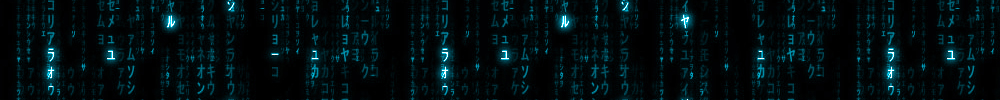
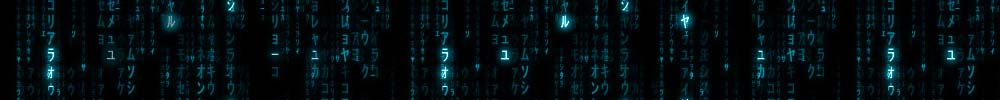
design page up to speed except responsive

diff --git a/app/assets/stylesheets/application.css.scss b/app/assets/stylesheets/application.css.scss
@@ -136,6 +136,8 @@ video, audio, iframe, table, form {
   position: fixed;
   width: 100%;
   z-index : 1;
+  border-bottom: 1.5px solid;
+  border-color: #04adcc;
 }
 
 .wrapper_blocker {
@@ -145,8 +147,14 @@ video, audio, iframe, table, form {
   height: 98px;
   width: 100%;
   z-index: 1;
-  border-bottom: 1.5px solid;
-  border-color: #04adcc;
+  border-bottom: solid 1px #04adcc;
+  transition: opacity .5s;
+  -moz-transition: opacity .5s;
+  -webkit-transition: opacity .5s;
+}
+
+.transparent {
+  opacity: 0;
 }
 
 
@@ -176,10 +184,11 @@ video, audio, iframe, table, form {
 
 #donpic {
   position: fixed;
-  top: 32px;
-  left: 38px;
+  top: 11px;
+  left: 40px;
   width: 120px;
   z-index: 2;
+  transition: all .5s;
 }
 
 #donpic_homepage {
@@ -236,7 +245,7 @@ video, audio, iframe, table, form {
   color: #7a7a7a;
   text-align: center;
   text-decoration: none;
-  margin: 0 0 0 30px;
+  margin: 0 0 0 16px;
 }
 
 #navbar nav a.selected {
@@ -245,7 +254,7 @@ video, audio, iframe, table, form {
 }
 
 #navbar {
-  margin: 25px 0 0 0;
+  margin: 25px 0 0 10px;
 }
 
 #navbar nav a:hover {
@@ -278,7 +287,14 @@ video, audio, iframe, table, form {
 }
 
 .links {
-  margin: 0 0 0 120px;
+  margin-left: 120px;
+  margin-top: 10px;
+  z-index: 9998;
+  transition: all .5s;
+}
+
+.uplink {
+  margin-top: -25px;
 }
 
 /*new nav tree */
@@ -536,11 +552,11 @@ footer {
     font: .90em avenir, helvetica, Arial, sans-serif;
   }
 
-  #program_navbar {
+  #white_navbar {
     width: 100%;
   }
 
-  #program_navbar nav a {
+  #white_navbar nav a {
     font: .90em avenir, helvetica, Arial, sans-serif;
   }
 
@@ -607,7 +623,7 @@ footer {
     height: 92px;
   }
 
-  #program_navbar nav a {
+  #white_navbar nav a {
     font: .85em avenir, helvetica, Arial, sans-serif;
   }
 
@@ -623,7 +639,7 @@ footer {
     margin: 50px auto;
   }
 
-  #navbar, #program_navbar {
+  #navbar, #white_navbar {
     font-size: 90%;
     width: 100%;
   }
@@ -633,7 +649,7 @@ footer {
     width: 10%;
   }
 
-  #program_navbar nav a {
+  #white_navbar nav a {
     display: inline-block;
     width: 10%;
   }
@@ -667,7 +683,7 @@ footer {
 
 
 @media only screen and (max-width: 800px) {
-  #navbar, #program_navbar {
+  #navbar, #white_navbar {
     font-size: 80%;
     width: 100%;
   }
@@ -700,7 +716,7 @@ footer {
     display: none;
   }
 
-  #navbar, #program_navbar {
+  #navbar, #white_navbar {
     font-size: 80%;
     width: 100%;
     left: 10%;
@@ -730,7 +746,7 @@ footer {
 }
 
 @media only screen and (max-width: 700px) {
-  #navbar, #program_navbar {
+  #navbar, #white_navbar {
     width: 100%;
     left: 10%;
   }
@@ -804,7 +820,7 @@ footer {
     left: -10px;
   }
 
-  #navbar, #program_navbar {
+  #navbar, #white_navbar {
     margin-left: 0px;
     font-size: 72%;
     width: 100%;

diff --git a/app/assets/javascripts/programs.js b/app/assets/javascripts/programs.js
@@ -5,20 +5,37 @@ function bind_program_thumbs(){
     $('#view_' + index).children()[0].src = image_url = image_url;});
 }
 
-function hover_header(){
-  $('.fixer').hover(function(){
-    $('.program_wrapper_blocker').stop(true, true).fadeTo(400, 0);
-    $('#program_navbar').attr("id","navbar");
-    switchClass();
-  });
-    // }, function(){
-    // $('.program_wrapper_blocker').stop(true, true).fadeTo(300, 1);
-    // $('#navbar').attr("id","program_navbar");
-    // });
-}
+// $(window).scroll(function() {    
+//     var scroll = $(window).scrollTop();
+
+//     if (scroll > 1 && scroll < 10) {
+//       $('.program_wrapper_blocker').stop(true, true).fadeTo(500, 0);
+//       $('#program_navbar').attr("id","navbar");
+//     }else if(scroll > 10){
+//       switchClass();
+//     }else if(scroll < 1){
+//       $('#navbar').attr("id","program_navbar");
+//     }
+// });
+
+// function hover_header(){
+//   $('.fixer').hover(function(){
+//     $('.program_wrapper_blocker').stop(true, true).fadeTo(600, 0);
+//     setTimeout(switchClass, 500);
+//   }, function(){
+//     $('.wrapper_blocker').stop(true, true).fadeTo(0, 0);
+//     otherswitchClass();
+//     });
+// }
 
 function switchClass(){
   $('.program_wrapper_blocker').addClass('wrapper_blocker');
   $('.wrapper_blocker').removeClass('program_wrapper_blocker');
   $('.wrapper_blocker').fadeTo(0, 1);
+}
+
+function otherswitchClass(){
+  $('.wrapper_blocker').addClass('program_wrapper_blocker');
+  $('.program_wrapper_blocker').removeClass('wrapper_blocker');
+  $('.program_wrapper_blocker').fadeTo(500, 1);
 }

diff --git a/app/assets/javascripts/design.js b/app/assets/javascripts/design.js
@@ -2,6 +2,8 @@
 // # All this logic will automatically be available in application.js.
 // # You can use CoffeeScript in this file: http://coffeescript.org/
 
+
+
 function bind_design_thumbs(){
   $('.thumb').hover(function(){
     var image_url = this.src;
@@ -12,3 +14,32 @@ function bind_design_thumbs(){
       }
   });
 }
+
+$(window).scroll(function() {    
+    var scroll = $(window).scrollTop();
+
+    if (scroll > 30) {
+      makeOpaque();
+    }
+    else if(scroll < 30){
+      makeTransparent();
+    }
+});
+
+var makeOpaque = function(){
+  if($('.wrapper_blocker').hasClass('transparent')){
+      $('.wrapper_blocker').removeClass('transparent');
+      $('#white_navbar').attr("id","navbar");
+      $('.links').addClass('uplink');
+      $('#donpic').css('top', 32);
+    }
+};
+
+var makeTransparent = function(){
+  if($('.wrapper_blocker').hasClass('transparent') === false){
+      $('.wrapper_blocker').addClass('transparent');
+      $('#navbar').attr("id","white_navbar");
+      $('.links').removeClass('uplink');
+      $('#donpic').css('top', 15);
+    }
+};

diff --git a/app/assets/stylesheets/design.scss b/app/assets/stylesheets/design.scss
@@ -2,6 +2,13 @@
 // They will automatically be included in application.css.
 // You can use Sass (SCSS) here: http://sass-lang.com/*/
 
+#dontest {
+  background-color: white;
+  background-image: image-url('blue_matrix.jpg');
+  width: 100%;
+  min-height: 100px;
+}
+
 /* /$$$$$$$  /$$$$$$$$  /$$$$$$  /$$$$$$  /$$$$$$  /$$   /$$       /$$$$$$$   /$$$$$$   /$$$$$$  /$$$$$$$$  /$$$$$$ 
   | $$__  $$| $$_____/ /$$__  $$|_  $$_/ /$$__  $$| $$$ | $$      | $$__  $$ /$$__  $$ /$$__  $$| $$_____/ /$$__  $$
   | $$  \ $$| $$      | $$  \__/  | $$  | $$  \__/| $$$$| $$      | $$  \ $$| $$  \ $$| $$  \__/| $$      | $$  \__/
@@ -134,7 +141,7 @@ hr {
 
 .design_wrapper__index {
   position: relative;
-  top: 80px;
+  top: 10px;
   width: 39%;
   margin: 50px auto;
 }

diff --git a/app/assets/stylesheets/programs.scss b/app/assets/stylesheets/programs.scss
@@ -6,16 +6,14 @@
   position: fixed;
   top: 0;
   background-image: image-url('blue_matrix.jpg');
-  height: 98px;
+  height: 97px;
   width: 100%;
   z-index: 1;
-  border-bottom: 1.5px solid;
-  border-color: #04adcc;
   -webkit-transition: all, -webkit-transform 2s;
   transition: all, transform 2s;
 }
 
-#program_navbar nav a {
+#white_navbar nav a {
   display: inline-block;
   width: 7%;
   font: .95em avenir, helvetica, Arial, sans-serif;
@@ -25,7 +23,7 @@
   margin: 0 0 0 16px;
 }
 
-#program_navbar {
+#white_navbar {
   margin: 25px 0 0 10px;
 }
 

diff --git a/app/assets/javascripts/application.js b/app/assets/javascripts/application.js
@@ -30,7 +30,8 @@ $(function(){
   bind_buttons();
   place_blog_images();
   bind_programming_link();
-  hover_header();
+  // hover_header();
+  // toggleTransparent();
 });
 
 function bind_design_link(){
